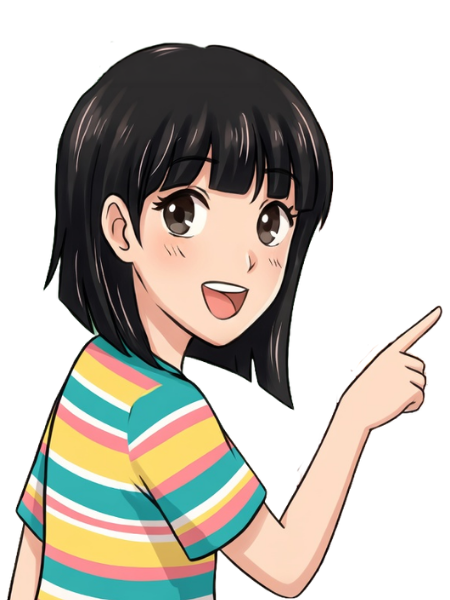
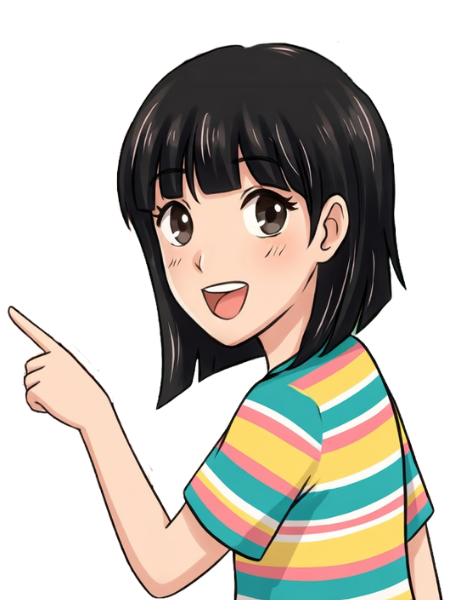
Character drawing/scaling complete

diff --git a/src/ui_handler.js b/src/ui_handler.js
@@ -14,23 +14,22 @@ export class UiHandler{
     initUI(assets, ctx){
         this.background = assets.getAsset('background');
 
-        let imgSize = {x: 300 / 2, y: 300 / 2};
-
+        let imgSize = {x: (300 / 1.75) * this.scale.x, y: (300 / 1.75) * this.scale.y};
         this.foods.push(
-            new FoodItem(assets.getAsset('chocolatecake'), imgSize, { x: 235, y: 130 }, 15),
-            new FoodItem(assets.getAsset('cupcakes'), imgSize, { x: 465, y: 145 }, 15),
-            new FoodItem(assets.getAsset('fruitbowl'), imgSize, { x: 695, y: 140 }, 15),
-            new FoodItem(assets.getAsset('fruitcake'), imgSize, { x: 915, y: 135 }, 15),
-            new FoodItem(assets.getAsset('mintcake'), imgSize, { x: 235, y: 360 }, 15),
-            new FoodItem(assets.getAsset('onigiri'), imgSize, { x: 465, y: 375 }, 15),
-            new FoodItem(assets.getAsset('salad'), imgSize, { x: 695, y: 375 }, 15),
-            new FoodItem(assets.getAsset('tofu'), imgSize, { x: 920, y: 385 }, 15)
+            new FoodItem(assets.getAsset('chocolatecake'), imgSize, { x: 255, y: 155 }, 15),
+            new FoodItem(assets.getAsset('cupcakes'), imgSize, { x: 470, y: 165 }, 15),
+            new FoodItem(assets.getAsset('fruitbowl'), imgSize, { x: 700, y: 160 }, 15),
+            new FoodItem(assets.getAsset('fruitcake'), imgSize, { x: 925, y: 155 }, 15),
+            new FoodItem(assets.getAsset('mintcake'), imgSize, { x: 255, y: 380 }, 15),
+            new FoodItem(assets.getAsset('onigiri'), imgSize, { x: 475, y: 395 }, 15),
+            new FoodItem(assets.getAsset('salad'), imgSize, { x: 700, y: 390 }, 15),
+            new FoodItem(assets.getAsset('tofu'), imgSize, { x: 930, y: 410 }, 15)
         );
 
-        imgSize = {x: 450 / 1.5, y: 600 / 1.5 };
+        imgSize = {x: 450 * this.scale.x, y: 600 * this.scale.y };
 
-        const boyPos = { x: 0.0, y: ctx.canvas.height - imgSize.y};
-        const girlPos = { x: this.background.width - imgSize.x - 10, y:ctx.canvas.height };
+        const boyPos = { x: 0.0, y: ctx.canvas.height - 205};
+        const girlPos = { x: this.background.width - imgSize.x, y:ctx.canvas.height - 205};
 
         this.characters.push(
             new Character(assets.getAsset('boy'), imgSize, boyPos),
@@ -39,10 +38,19 @@ export class UiHandler{
     }
 
     updateUI(scale, deltaTime){
-        if(scale.x !== this.scale.x || scale.y != this.scale.y){this.scale = {...scale};}
+        this.updateUIScale(scale);
     }
 
     drawUI(ctx){
+
+        ctx.fillStyle = "purple";
+        ctx.fillRect(0,0,ctx.canvas.width, ctx.canvas.height);
+
+        ctx.fillStyle = "white";
+        ctx.fillRect(this.background.width * this.scale.x, 0, ctx.canvas.width - (this.background.width * this.scale.x),
+            ctx.canvas.height
+        )
+
         ctx.drawImage(this.background,0,0, this.background.width * this.scale.x, this.background.height * this.scale.y);
 
         this.drawBorders(ctx);
@@ -63,5 +71,9 @@ export class UiHandler{
 
         ctx.fillRect(vertPos.x * this.scale.x, vertPos.y * this.scale.y, vertSize.x * this.scale.x, vertSize.y);
         ctx.fillRect(horizPos.x * this.scale.x, horizPos.y * this.scale.y, horizSize.x * this.scale.x, horizSize.y * this.scale.y);
+    }
+
+    updateUIScale(scale){
+        if(scale.x !== this.scale.x || scale.y != this.scale.y){this.scale = {...scale};}
     }
 }

diff --git a/src/input_handler.js b/src/input_handler.js
@@ -38,7 +38,6 @@ export class InputHandler{
         Game.canvas.addEventListener('mousemove', (event) => {
             const screen = Game.canvas.getBoundingClientRect();
             this.mousePos = {x: event.clientX - screen.left, y: event.clientY - screen.top};
-            console.log("Mouse Position: ", this.mousePos);
         });
         
         console.log("Inputs Initialized");

diff --git a/src/game.js b/src/game.js
@@ -51,6 +51,7 @@ function update(deltaTime){
         if (Game.assets.areAllAssetsLoaded()){
             Game.assetsLoaded = true;
             resizeCanvas();
+            Game.ui.updateUIScale(Game.scale);
             Game.ui.initUI(Game.assets, Game.ctx);
             console.log("Assets loaded");
         }
